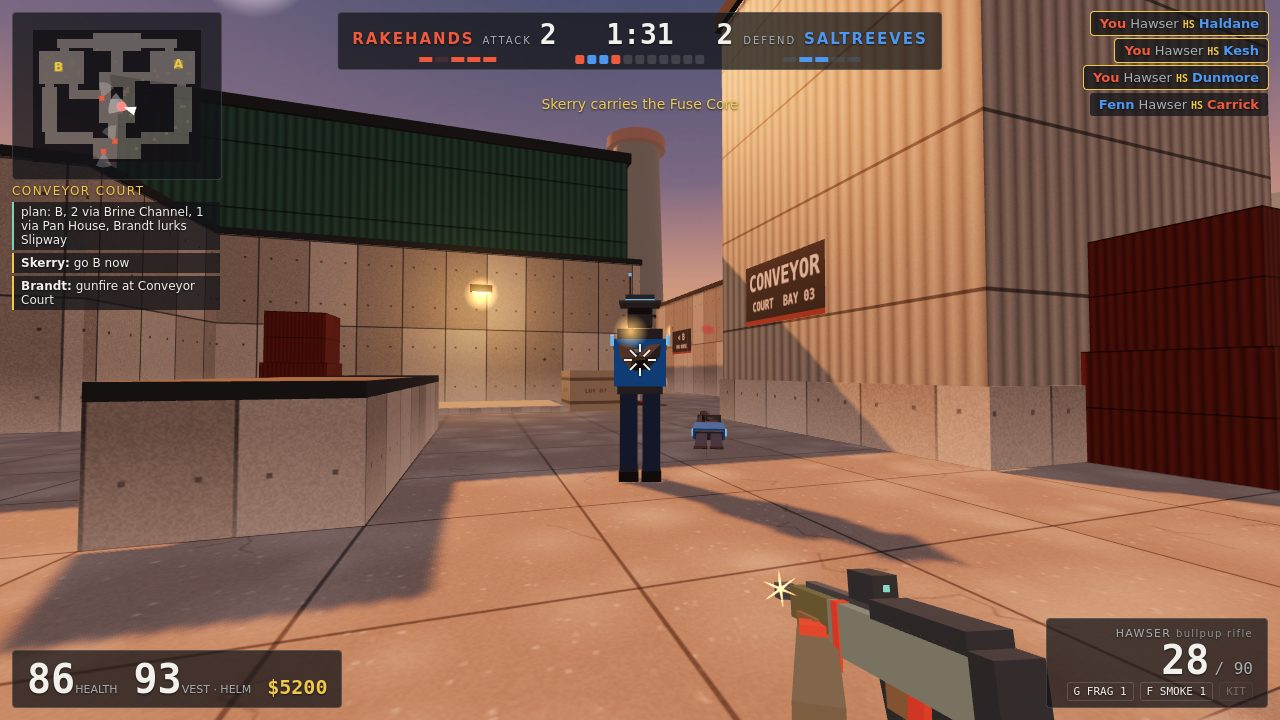
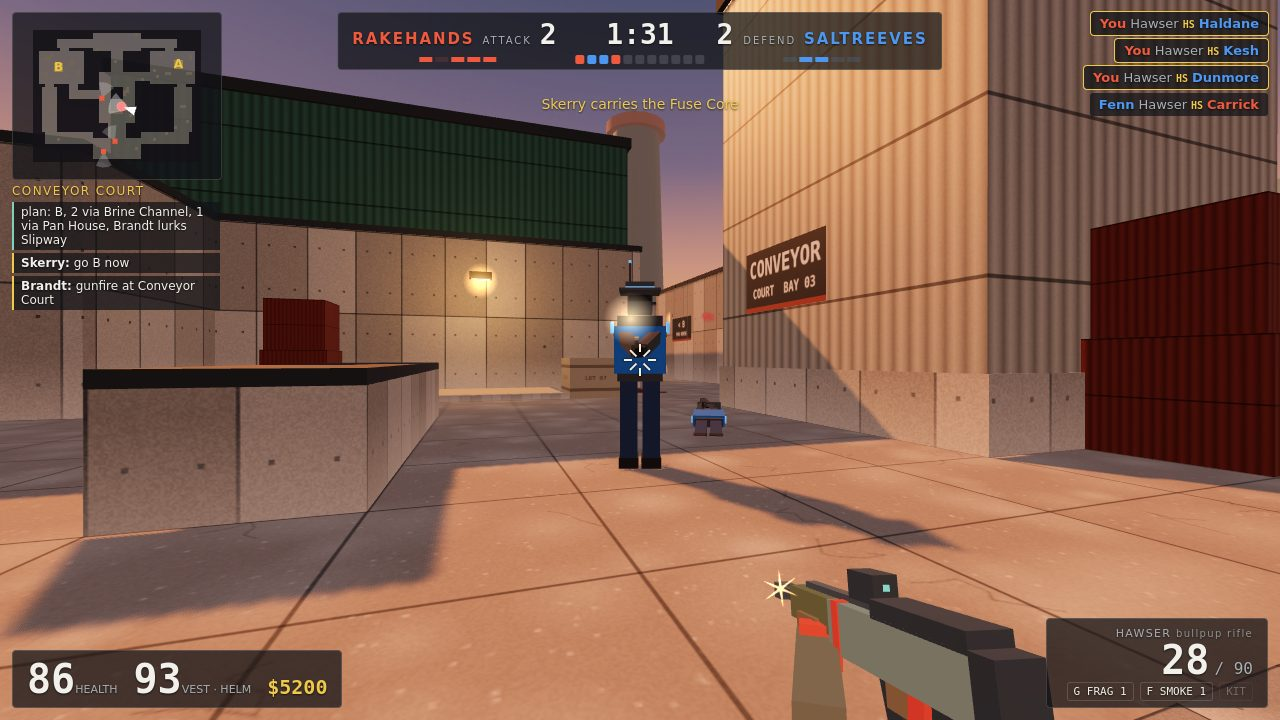
Bots' muzzle flashes read as gunshots: brighter warm-white and half again larger
effects.js flash glow 0xd99a4c -> 0xffd08a, sprite 0.3 -> 0.45 m (+1 B). Shot 1's trade aims at
the waist (tools/stage.js), so our hit marker sits below Fenn's flash instead of merging with
it. Fresh screenshots.

diff --git a/tools/stage.js b/tools/stage.js
@@ -25,7 +25,7 @@ const SCENES = {
     script(i, s) {
       s.p.cmd.crouch = true;
       if (i === 11) s.aim('f0', 'head');
-      if (i >= 20) s.aim('f1', 'chest');
+      if (i >= 20) s.aim('f1', 'waist'); // low on the torso: the marker clears his muzzle flash
       s.p.cmd.fire = i === 12 || i === 31;
     } },
   // Buy time in the defenders' yard, the low sun across the cladding, teammates armed differently.
@@ -125,11 +125,11 @@ function stage(ctx, sc) {
   for (const e of state.events.list) if (e.type === EV.KILL && e.t >= roundStart) e.t = state.time; // this round's kills stay in the feed (rows expire after 10 s)
   for (const [k, text] of sc.radio ?? []) radio(state, who(k), text);
   for (const [k, react, low = 0.01] of sc.fire ?? []) Object.assign(who(k).brain, { target: p.id, reactTimer: react, errYaw: 0.02, errPitch: low, aimHead: false, crouchSpray: false, lastSeenId: p.id, lastSeenTime: 1e9 });
-  // Look at an actor's head or chest, or (k null) at pitch `part` toward cell (c, r).
+  // Look at an actor's head, chest or waist, or (k null) at pitch `part` toward cell (c, r).
   const aim = (k, part, c, r) => {
     const ey = p.pos.y + eyeOf(p);
     if (!k) return ctx.input.face(yawTo(p.pos.x, p.pos.z, (c + 0.5) * S, (r + 0.5) * S), part);
-    const a = who(k), y = a.pos.y + (part === 'head' ? heightOf(a) - 0.17 : heightOf(a) * 0.62);
+    const a = who(k), y = a.pos.y + (part === 'head' ? heightOf(a) - 0.17 : heightOf(a) * (part === 'waist' ? 0.55 : 0.62));
     ctx.input.face(yawTo(p.pos.x, p.pos.z, a.pos.x, a.pos.z), Math.atan2(y - ey, Math.hypot(a.pos.x - p.pos.x, a.pos.z - p.pos.z)));
   };
   const s = { ctx, p, who, aim };

diff --git a/game/src/render/effects.js b/game/src/render/effects.js
@@ -32,8 +32,8 @@ export function createEffects(scene) {
   const points = new THREE.Points(pGeo, new THREE.PointsMaterial({ size: 0.12, map: softDot(), vertexColors: true, transparent: true, depthWrite: false }));
   points.frustumCulled = false;
   scene.add(points);
-  const flashMat = glow(0xd99a4c);
-  const flashes = Array.from({ length: FLASHES }, () => { const sp = new THREE.Sprite(flashMat); sp.visible = false; sp.scale.setScalar(0.3); scene.add(sp); return { sprite: sp, life: 0 }; });
+  const flashMat = glow(0xffd08a);
+  const flashes = Array.from({ length: FLASHES }, () => { const sp = new THREE.Sprite(flashMat); sp.visible = false; sp.scale.setScalar(0.45); scene.add(sp); return { sprite: sp, life: 0 }; });
   const blastSprite = new THREE.Sprite(glow(0xffc070)), blastLight = new THREE.PointLight(0xff9a40, 0, 30);
   blastSprite.visible = false;
   scene.add(blastSprite, blastLight);
